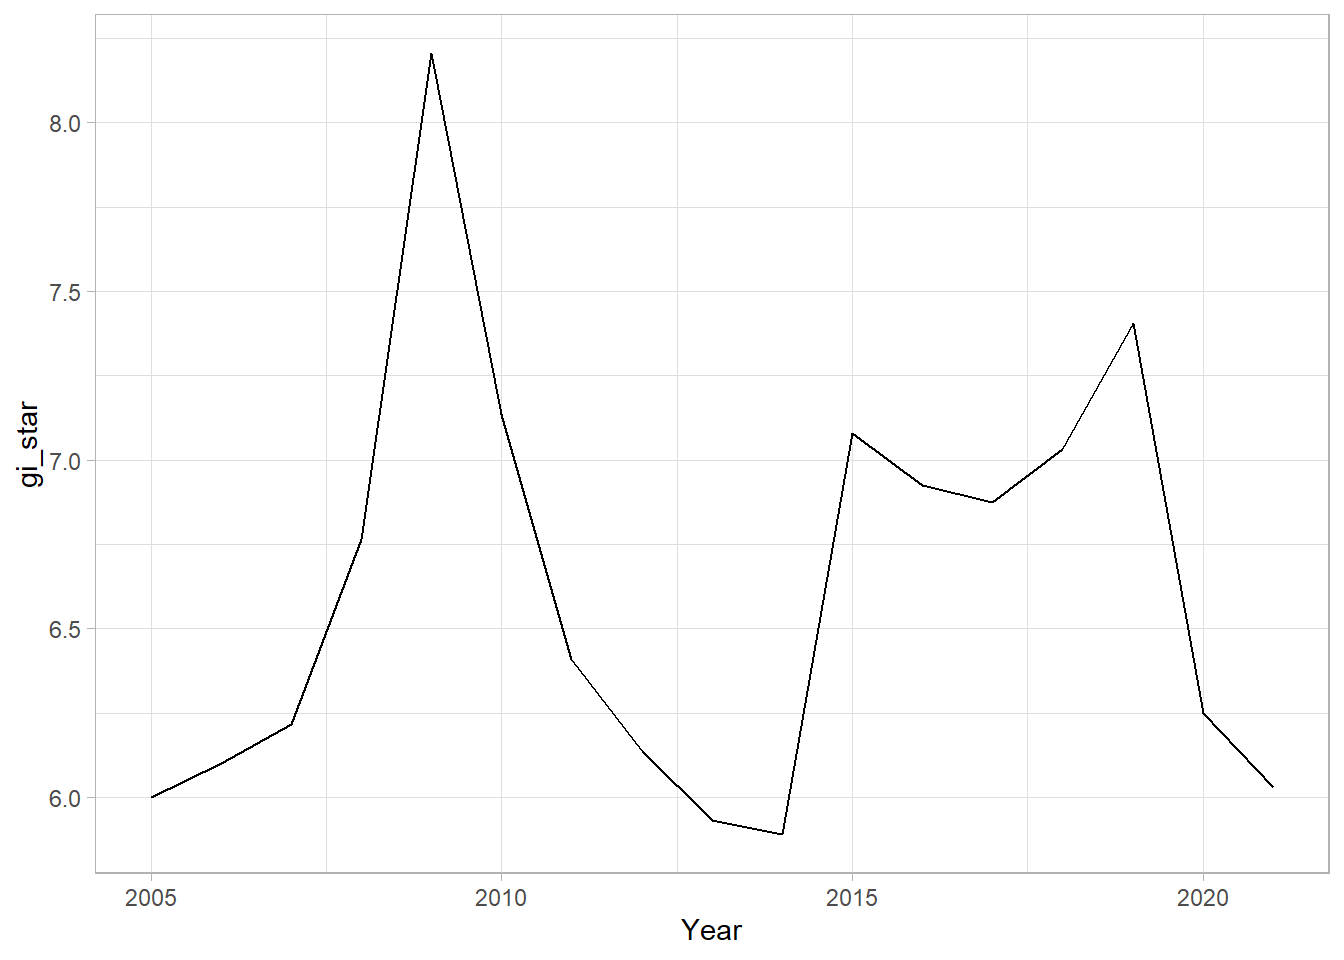
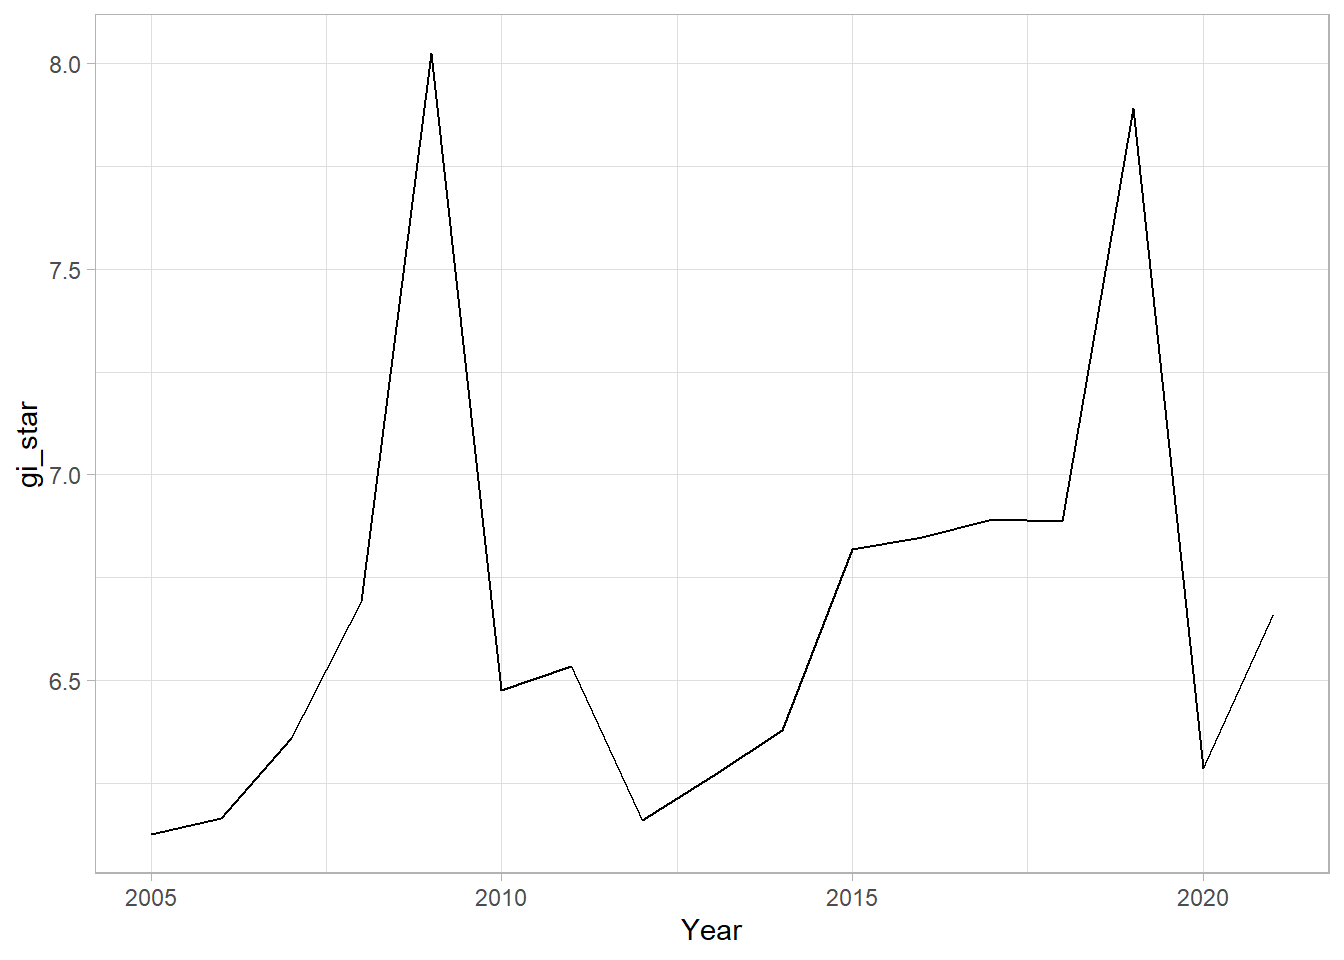
Commit In-class Exercise 7

diff --git a/_site/In-class_Ex/In-class_Ex07/In-class_Ex07_EHSA.html b/_site/In-class_Ex/In-class_Ex07/In-class_Ex07_EHSA.html
@@ -193,7 +193,7 @@ code span.wa { color: #60a0b0; font-weight: bold; font-style: italic; } /* Warni
  <span class="dropdown-text">In-class Exercise 7: GLSA</span></a>
   </li>  
         <li>
-    <a class="dropdown-item" href="../../In-class_Ex/In-class_Ex07/In-class_Ex07-EHSA.html">
+    <a class="dropdown-item" href="../../In-class_Ex/In-class_Ex07/In-class_Ex07_EHSA.html">
  <span class="dropdown-text">In-class Exercise 7: EHSA</span></a>
   </li>  
     </ul>
@@ -515,8 +515,8 @@ Things to learn from the code chunk above
 <span id="cb14-6"><a href="#cb14-6" aria-hidden="true" tabindex="-1"></a></span>
 <span id="cb14-7"><a href="#cb14-7" aria-hidden="true" tabindex="-1"></a><span class="fu">ggplotly</span>(p)</span></code><button title="Copy to Clipboard" class="code-copy-button"><i class="bi"></i></button></pre></div>
 <div class="cell-output-display">
-<div class="plotly html-widget html-fill-item-overflow-hidden html-fill-item" id="htmlwidget-75025f4010c6afc191a6" style="width:100%;height:464px;"></div>
-<script type="application/json" data-for="htmlwidget-75025f4010c6afc191a6">{"x":{"data":[{"x":[2005,2006,2007,2008,2009,2010,2011,2012,2013,2014,2015,2016,2017,2018,2019,2020,2021],"y":[5.9988205975463,6.10085954723777,6.21529717921253,6.76547629331245,8.20482534077904,7.13504326189978,6.4098185540811,6.13511672086168,5.93148995907265,5.88929937044484,7.07798398745218,6.92346677999724,6.8738032543851,7.03295749948836,7.40538723166619,6.25004596202908,6.02890699526285],"text":["Year: 2005<br />gi_star: 5.998821","Year: 2006<br />gi_star: 6.100860","Year: 2007<br />gi_star: 6.215297","Year: 2008<br />gi_star: 6.765476","Year: 2009<br />gi_star: 8.204825","Year: 2010<br />gi_star: 7.135043","Year: 2011<br />gi_star: 6.409819","Year: 2012<br />gi_star: 6.135117","Year: 2013<br />gi_star: 5.931490","Year: 2014<br />gi_star: 5.889299","Year: 2015<br />gi_star: 7.077984","Year: 2016<br />gi_star: 6.923467","Year: 2017<br />gi_star: 6.873803","Year: 2018<br />gi_star: 7.032957","Year: 2019<br />gi_star: 7.405387","Year: 2020<br />gi_star: 6.250046","Year: 2021<br />gi_star: 6.028907"],"type":"scatter","mode":"lines","line":{"width":1.88976377952756,"color":"rgba(0,0,0,1)","dash":"solid"},"hoveron":"points","showlegend":false,"xaxis":"x","yaxis":"y","hoverinfo":"text","frame":null}],"layout":{"margin":{"t":26.2283105022831,"r":7.30593607305936,"b":40.1826484018265,"l":43.1050228310502},"plot_bgcolor":"rgba(255,255,255,1)","paper_bgcolor":"rgba(255,255,255,1)","font":{"color":"rgba(0,0,0,1)","family":"","size":14.6118721461187},"xaxis":{"domain":[0,1],"automargin":true,"type":"linear","autorange":false,"range":[2004.2,2021.8],"tickmode":"array","ticktext":["2005","2010","2015","2020"],"tickvals":[2005,2010,2015,2020],"categoryorder":"array","categoryarray":["2005","2010","2015","2020"],"nticks":null,"ticks":"outside","tickcolor":"rgba(179,179,179,1)","ticklen":3.65296803652968,"tickwidth":0.33208800332088,"showticklabels":true,"tickfont":{"color":"rgba(77,77,77,1)","family":"","size":11.689497716895},"tickangle":-0,"showline":false,"linecolor":null,"linewidth":0,"showgrid":true,"gridcolor":"rgba(222,222,222,1)","gridwidth":0.33208800332088,"zeroline":false,"anchor":"y","title":{"text":"Year","font":{"color":"rgba(0,0,0,1)","family":"","size":14.6118721461187}},"hoverformat":".2f"},"yaxis":{"domain":[0,1],"automargin":true,"type":"linear","autorange":false,"range":[5.77352307192813,8.32060163929575],"tickmode":"array","ticktext":["6.0","6.5","7.0","7.5","8.0"],"tickvals":[6,6.5,7,7.5,8],"categoryorder":"array","categoryarray":["6.0","6.5","7.0","7.5","8.0"],"nticks":null,"ticks":"outside","tickcolor":"rgba(179,179,179,1)","ticklen":3.65296803652968,"tickwidth":0.33208800332088,"showticklabels":true,"tickfont":{"color":"rgba(77,77,77,1)","family":"","size":11.689497716895},"tickangle":-0,"showline":false,"linecolor":null,"linewidth":0,"showgrid":true,"gridcolor":"rgba(222,222,222,1)","gridwidth":0.33208800332088,"zeroline":false,"anchor":"x","title":{"text":"gi_star","font":{"color":"rgba(0,0,0,1)","family":"","size":14.6118721461187}},"hoverformat":".2f"},"shapes":[{"type":"rect","fillcolor":"transparent","line":{"color":"rgba(179,179,179,1)","width":0.66417600664176,"linetype":"solid"},"yref":"paper","xref":"paper","x0":0,"x1":1,"y0":0,"y1":1}],"showlegend":false,"legend":{"bgcolor":"rgba(255,255,255,1)","bordercolor":"transparent","borderwidth":1.88976377952756,"font":{"color":"rgba(0,0,0,1)","family":"","size":11.689497716895}},"hovermode":"closest","barmode":"relative"},"config":{"doubleClick":"reset","modeBarButtonsToAdd":["hoverclosest","hovercompare"],"showSendToCloud":false},"source":"A","attrs":{"63e447d93ebe":{"x":{},"y":{},"type":"scatter"}},"cur_data":"63e447d93ebe","visdat":{"63e447d93ebe":["function (y) ","x"]},"highlight":{"on":"plotly_click","persistent":false,"dynamic":false,"selectize":false,"opacityDim":0.2,"selected":{"opacity":1},"debounce":0},"shinyEvents":["plotly_hover","plotly_click","plotly_selected","plotly_relayout","plotly_brushed","plotly_brushing","plotly_clickannotation","plotly_doubleclick","plotly_deselect","plotly_afterplot","plotly_sunburstclick"],"base_url":"https://plot.ly"},"evals":[],"jsHooks":[]}</script>
+<div class="plotly html-widget html-fill-item-overflow-hidden html-fill-item" id="htmlwidget-c83735226c48e503544d" style="width:100%;height:464px;"></div>
+<script type="application/json" data-for="htmlwidget-c83735226c48e503544d">{"x":{"data":[{"x":[2005,2006,2007,2008,2009,2010,2011,2012,2013,2014,2015,2016,2017,2018,2019,2020,2021],"y":[6.12423429666508,6.16356904052404,6.35945849156141,6.69304578583348,8.02478024834492,6.47581399090219,6.53409316586876,6.16038750923907,6.26671580861626,6.3769510682732,6.81732882299042,6.84823654546696,6.89097298717433,6.88677064155303,7.89072699284422,6.28625588138826,6.6609475382588],"text":["Year: 2005<br />gi_star: 6.124234","Year: 2006<br />gi_star: 6.163569","Year: 2007<br />gi_star: 6.359458","Year: 2008<br />gi_star: 6.693046","Year: 2009<br />gi_star: 8.024780","Year: 2010<br />gi_star: 6.475814","Year: 2011<br />gi_star: 6.534093","Year: 2012<br />gi_star: 6.160388","Year: 2013<br />gi_star: 6.266716","Year: 2014<br />gi_star: 6.376951","Year: 2015<br />gi_star: 6.817329","Year: 2016<br />gi_star: 6.848237","Year: 2017<br />gi_star: 6.890973","Year: 2018<br />gi_star: 6.886771","Year: 2019<br />gi_star: 7.890727","Year: 2020<br />gi_star: 6.286256","Year: 2021<br />gi_star: 6.660948"],"type":"scatter","mode":"lines","line":{"width":1.88976377952756,"color":"rgba(0,0,0,1)","dash":"solid"},"hoveron":"points","showlegend":false,"xaxis":"x","yaxis":"y","hoverinfo":"text","frame":null}],"layout":{"margin":{"t":26.2283105022831,"r":7.30593607305936,"b":40.1826484018265,"l":43.1050228310502},"plot_bgcolor":"rgba(255,255,255,1)","paper_bgcolor":"rgba(255,255,255,1)","font":{"color":"rgba(0,0,0,1)","family":"","size":14.6118721461187},"xaxis":{"domain":[0,1],"automargin":true,"type":"linear","autorange":false,"range":[2004.2,2021.8],"tickmode":"array","ticktext":["2005","2010","2015","2020"],"tickvals":[2005,2010,2015,2020],"categoryorder":"array","categoryarray":["2005","2010","2015","2020"],"nticks":null,"ticks":"outside","tickcolor":"rgba(179,179,179,1)","ticklen":3.65296803652968,"tickwidth":0.33208800332088,"showticklabels":true,"tickfont":{"color":"rgba(77,77,77,1)","family":"","size":11.689497716895},"tickangle":-0,"showline":false,"linecolor":null,"linewidth":0,"showgrid":true,"gridcolor":"rgba(222,222,222,1)","gridwidth":0.33208800332088,"zeroline":false,"anchor":"y","title":{"text":"Year","font":{"color":"rgba(0,0,0,1)","family":"","size":14.6118721461187}},"hoverformat":".2f"},"yaxis":{"domain":[0,1],"automargin":true,"type":"linear","autorange":false,"range":[6.02920699908109,8.11980754592891],"tickmode":"array","ticktext":["6.5","7.0","7.5","8.0"],"tickvals":[6.5,7,7.5,8],"categoryorder":"array","categoryarray":["6.5","7.0","7.5","8.0"],"nticks":null,"ticks":"outside","tickcolor":"rgba(179,179,179,1)","ticklen":3.65296803652968,"tickwidth":0.33208800332088,"showticklabels":true,"tickfont":{"color":"rgba(77,77,77,1)","family":"","size":11.689497716895},"tickangle":-0,"showline":false,"linecolor":null,"linewidth":0,"showgrid":true,"gridcolor":"rgba(222,222,222,1)","gridwidth":0.33208800332088,"zeroline":false,"anchor":"x","title":{"text":"gi_star","font":{"color":"rgba(0,0,0,1)","family":"","size":14.6118721461187}},"hoverformat":".2f"},"shapes":[{"type":"rect","fillcolor":"transparent","line":{"color":"rgba(179,179,179,1)","width":0.66417600664176,"linetype":"solid"},"yref":"paper","xref":"paper","x0":0,"x1":1,"y0":0,"y1":1}],"showlegend":false,"legend":{"bgcolor":"rgba(255,255,255,1)","bordercolor":"transparent","borderwidth":1.88976377952756,"font":{"color":"rgba(0,0,0,1)","family":"","size":11.689497716895}},"hovermode":"closest","barmode":"relative"},"config":{"doubleClick":"reset","modeBarButtonsToAdd":["hoverclosest","hovercompare"],"showSendToCloud":false},"source":"A","attrs":{"89242d47281f":{"x":{},"y":{},"type":"scatter"}},"cur_data":"89242d47281f","visdat":{"89242d47281f":["function (y) ","x"]},"highlight":{"on":"plotly_click","persistent":false,"dynamic":false,"selectize":false,"opacityDim":0.2,"selected":{"opacity":1},"debounce":0},"shinyEvents":["plotly_hover","plotly_click","plotly_selected","plotly_relayout","plotly_brushed","plotly_brushing","plotly_clickannotation","plotly_doubleclick","plotly_deselect","plotly_afterplot","plotly_sunburstclick"],"base_url":"https://plot.ly"},"evals":[],"jsHooks":[]}</script>
 </div>
 </div>
 </div>
@@ -529,9 +529,9 @@ Things to learn from the code chunk above
 <span id="cb15-5"><a href="#cb15-5" aria-hidden="true" tabindex="-1"></a>  tidyr<span class="sc">::</span><span class="fu">unnest_wider</span>(mk)</span></code><button title="Copy to Clipboard" class="code-copy-button"><i class="bi"></i></button></pre></div>
 <div class="cell-output cell-output-stdout">
 <pre><code># A tibble: 1 × 5
-    tau    sl     S     D  varS
-  &lt;dbl&gt; &lt;dbl&gt; &lt;dbl&gt; &lt;dbl&gt; &lt;dbl&gt;
-1 0.103 0.592    14  136.  589.</code></pre>
+    tau     sl     S     D  varS
+  &lt;dbl&gt;  &lt;dbl&gt; &lt;dbl&gt; &lt;dbl&gt; &lt;dbl&gt;
+1 0.368 0.0435    50  136.  589.</code></pre>
 </div>
 </div>
 </div>

diff --git a/_site/In-class_Ex/In-class_Ex07/In-class_Ex07-GLSA.html b/_site/In-class_Ex/In-class_Ex07/In-class_Ex07-GLSA.html
@@ -185,7 +185,7 @@ code span.wa { color: #60a0b0; font-weight: bold; font-style: italic; } /* Warni
  <span class="dropdown-text">In-class Exercise 7: GLSA</span></a>
   </li>  
         <li>
-    <a class="dropdown-item" href="../../In-class_Ex/In-class_Ex07/In-class_Ex07-EHSA.html">
+    <a class="dropdown-item" href="../../In-class_Ex/In-class_Ex07/In-class_Ex07_EHSA.html">
  <span class="dropdown-text">In-class Exercise 7: EHSA</span></a>
   </li>  
     </ul>
